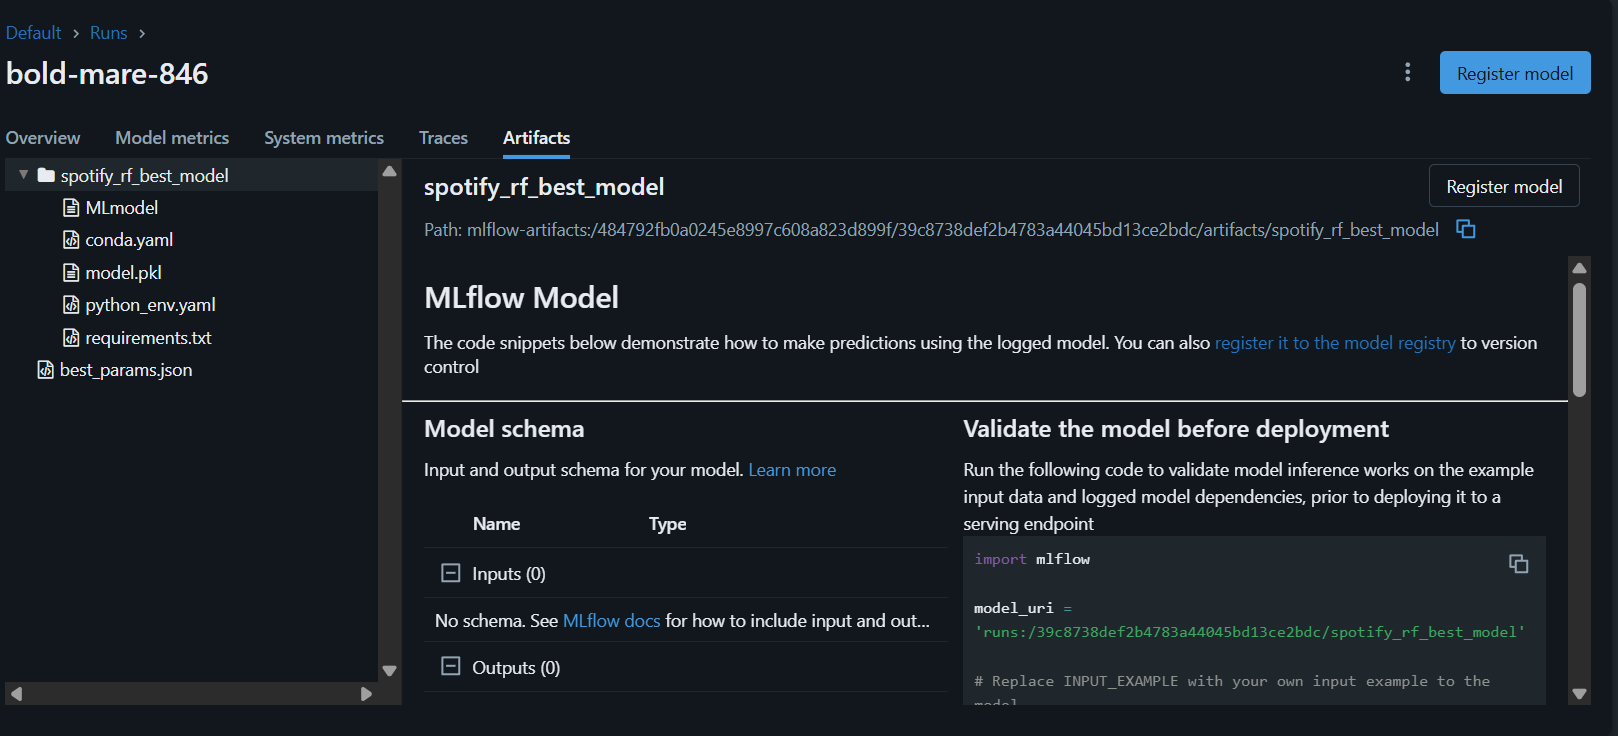
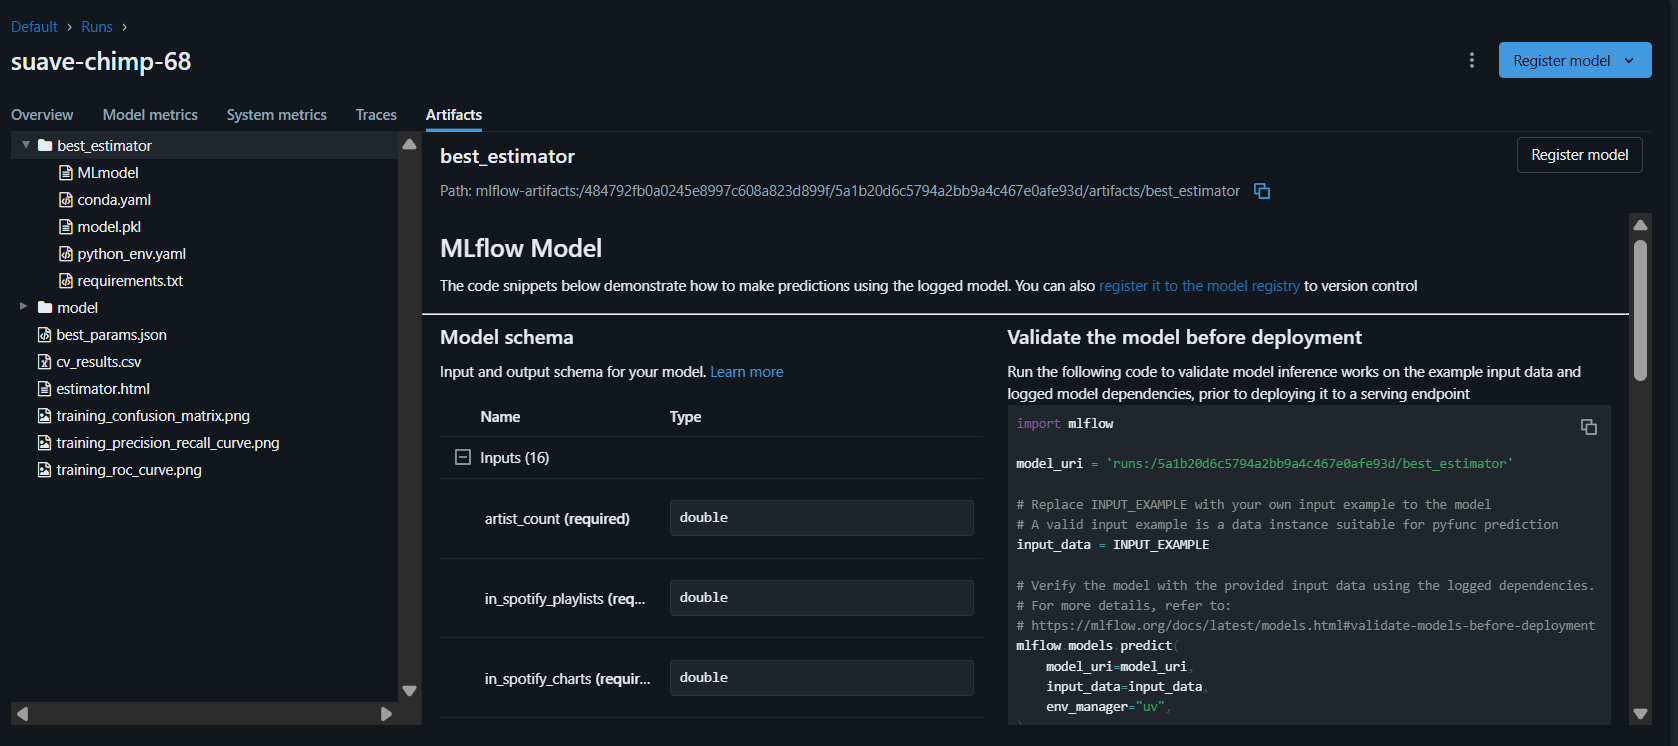
Fix MLflow autologging and complete Grafana alerting notification

diff --git a/Membangun_model/modelling.py b/Membangun_model/modelling.py
@@ -1,7 +1,5 @@
 import pandas as pd
-import numpy as np
 from sklearn.ensemble import RandomForestClassifier
-from sklearn.model_selection import train_test_split
 from sklearn.metrics import accuracy_score, confusion_matrix
 import matplotlib.pyplot as plt
 import seaborn as sns
@@ -9,14 +7,19 @@ import seaborn as sns
 import mlflow
 import mlflow.sklearn
 import dagshub
-import os
 
 # Connect MLflow to DagsHub
-dagshub.init(repo_owner="Arensyifa", repo_name="mlsystem-spotify-aren", mlflow=True)
+dagshub.init(
+    repo_owner="Arensyifa",
+    repo_name="mlsystem-spotify-aren",
+    mlflow=True
+)
+
+mlflow.sklearn.autolog()
 
 # Load dataset
-train_df = pd.read_csv("Membangun_model/spotify_preprocessed_train.csv")
-test_df = pd.read_csv("Membangun_model/spotify_preprocessed_test.csv")
+train_df = pd.read_csv("Membangun_model/dataset_preprocessing/spotify_preprocessed_train.csv")
+test_df = pd.read_csv("Membangun_model/dataset_preprocessing/spotify_preprocessed_test.csv")
 
 X_train = train_df.drop("popular", axis=1)
 y_train = train_df["popular"]
@@ -26,33 +29,23 @@ y_test = test_df["popular"]
 
 with mlflow.start_run():
 
-    # Model
     model = RandomForestClassifier(
         n_estimators=200,
         max_depth=10,
         random_state=42
     )
+
     model.fit(X_train, y_train)
 
-    # Predictions
     preds = model.predict(X_test)
     acc = accuracy_score(y_test, preds)
 
-    # Logging parameters & metrics manually
-    mlflow.log_param("n_estimators", 200)
-    mlflow.log_param("max_depth", 10)
-    mlflow.log_metric("accuracy", acc)
-
-    # Log the trained model
-    mlflow.sklearn.log_model(model, "spotify_rf_model")
-
-    # Confusion Matrix artifact
     cm = confusion_matrix(y_test, preds)
-
     plt.figure(figsize=(6, 4))
     sns.heatmap(cm, annot=True, fmt="d", cmap="Blues")
     plt.title("Confusion Matrix")
     plt.savefig("confusion_matrix.png")
+
     mlflow.log_artifact("confusion_matrix.png")
 
-print("Model berhasil dilatih dan dilog ke MLflow DagsHub!")
+print("Training selesai & logged via MLflow Autologging ✅")

diff --git a/Membangun_model/modelling_tuning.py b/Membangun_model/modelling_tuning.py
@@ -8,10 +8,16 @@ import dagshub
 import json
 
 # Connect MLflow
-dagshub.init(repo_owner="Arensyifa", repo_name="mlsystem-spotify-aren", mlflow=True)
+dagshub.init(
+    repo_owner="Arensyifa",
+    repo_name="mlsystem-spotify-aren",
+    mlflow=True
+)
 
-train_df = pd.read_csv("Membangun_model/spotify_preprocessed_train.csv")
-test_df = pd.read_csv("Membangun_model/spotify_preprocessed_test.csv")
+mlflow.sklearn.autolog()
+
+train_df = pd.read_csv("Membangun_model/dataset_preprocessing/spotify_preprocessed_train.csv")
+test_df = pd.read_csv("Membangun_model/dataset_preprocessing/spotify_preprocessed_test.csv")
 
 X_train = train_df.drop("popular", axis=1)
 y_train = train_df["popular"]
@@ -37,22 +43,14 @@ search = RandomizedSearchCV(
 with mlflow.start_run():
 
     search.fit(X_train, y_train)
-    best_model = search.best_estimator_
 
+    best_model = search.best_estimator_
     preds = best_model.predict(X_test)
     acc = accuracy_score(y_test, preds)
 
-    # Manual logging
-    mlflow.log_params(search.best_params_)
-    mlflow.log_metric("best_accuracy", acc)
-
-    # Save tuned model
-    mlflow.sklearn.log_model(best_model, "spotify_rf_best_model")
-
-    # Save best parameters
     with open("best_params.json", "w") as f:
         json.dump(search.best_params_, f)
 
     mlflow.log_artifact("best_params.json")
 
-print("Tuning berhasil dan artefak sudah dikirim ke DagsHub!")
+print("Hyperparameter tuning selesai (MLflow Autologging aktif)")
